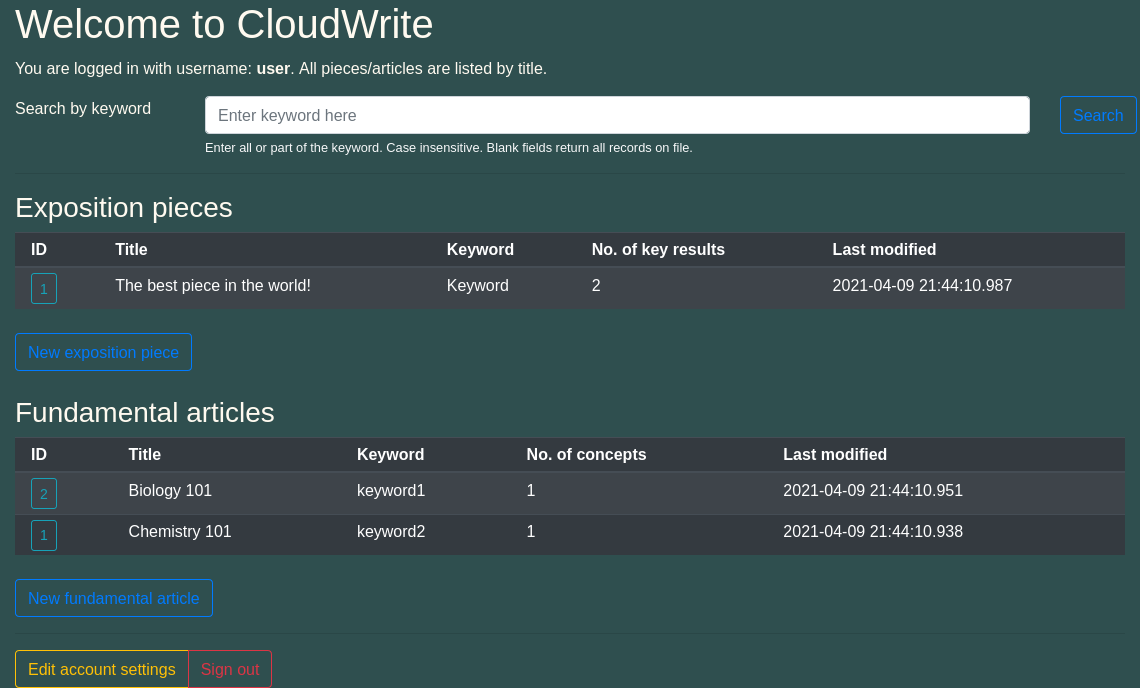
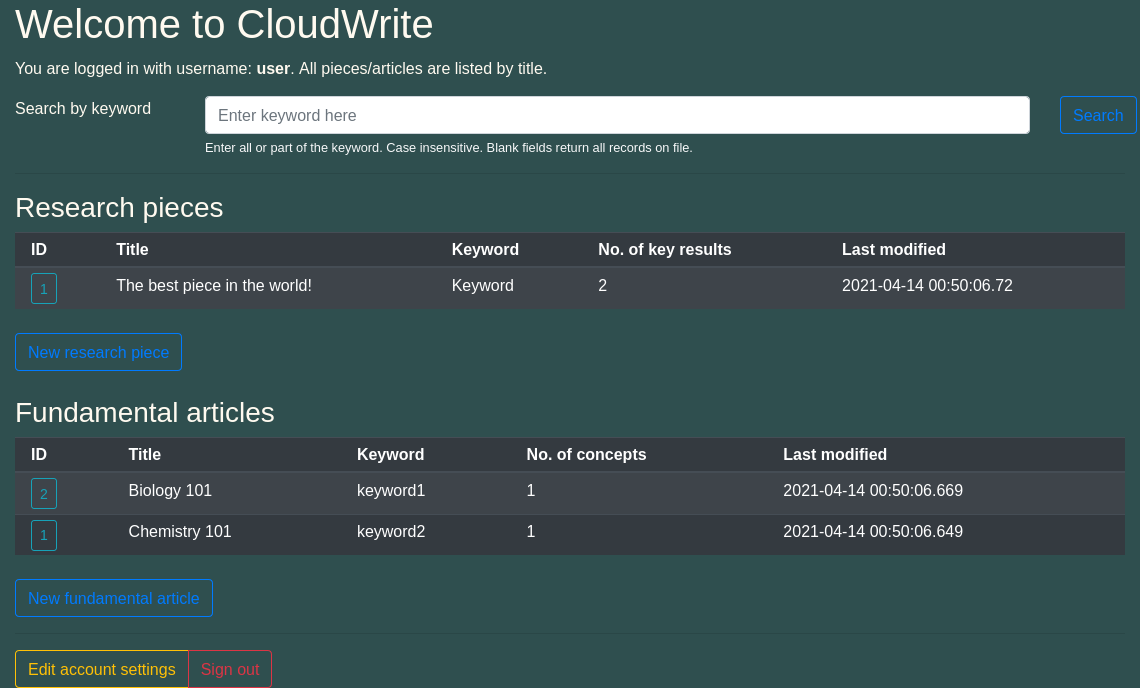
updated expo to research

diff --git a/CloudWrite.html b/CloudWrite.html
@@ -170,10 +170,10 @@
 
     <div class="row">
       <div class="col-md-12">
-        <h2>Exposition and fundamental pieces</h2>
+        <h2>Research and fundamental pieces</h2>
         <p>
-          An exposition piece highlights an area of research. A fundamental piece is an article which explains key concepts.
-           The user pages for exposition (below) and fundamental pieces are similar.
+          An research piece/article highlights an area of research. A fundamental piece is an article which explains key concept(s).
+           The user pages for research pieces (below) and fundamental pieces are similar.
         </p>
       </div>
     </div>
@@ -181,7 +181,7 @@
     <div class="row">
       <div class="col-md-12">
         <figure>
-          <img img alt="CloudWrite exposition piece" src="images/CloudWrite_Expo.png" class="mx-auto img-fluid d-block"
+          <img img alt="CloudWrite research piece" src="images/CloudWrite_Research.png" class="mx-auto img-fluid d-block"
             style="width: 100%">
         </figure>
       </div>
@@ -190,7 +190,7 @@
     <div class="row">
       <div class="col-md-12">
         <p>
-          Users can create new expositions (below) and fundamental pieces.
+          Users can create new research pieces (below) and fundamental pieces.
         </p>
       </div>
     </div>
@@ -198,7 +198,7 @@
     <div class="row">
       <div class="col-md-12">
         <figure>
-          <img img alt="CloudWrite new exposition piece" src="images/CloudWrite_NewExpo.png" class="mx-auto img-fluid d-block"
+          <img img alt="CloudWrite new research piece" src="images/CloudWrite_NewRes.png" class="mx-auto img-fluid d-block"
             style="width: 100%">
         </figure>
       </div>
@@ -211,7 +211,7 @@
         <h2>REST API</h2>
         <p>
           The REST API web service is documented using OpenAPI (formerly Swagger). A shortcut to the OpenAPI documentation page is provided at the login page.
-          All users, authenticated or not, are permitted read-only access to all exposition and fundamental pieces. In addition, users can search by keyword to narrow down the returns.
+          All users, authenticated or not, are permitted read-only access to all research and fundamental pieces. In addition, users can search by keyword to narrow down the returns.
         </p>
       </div>
     </div>
